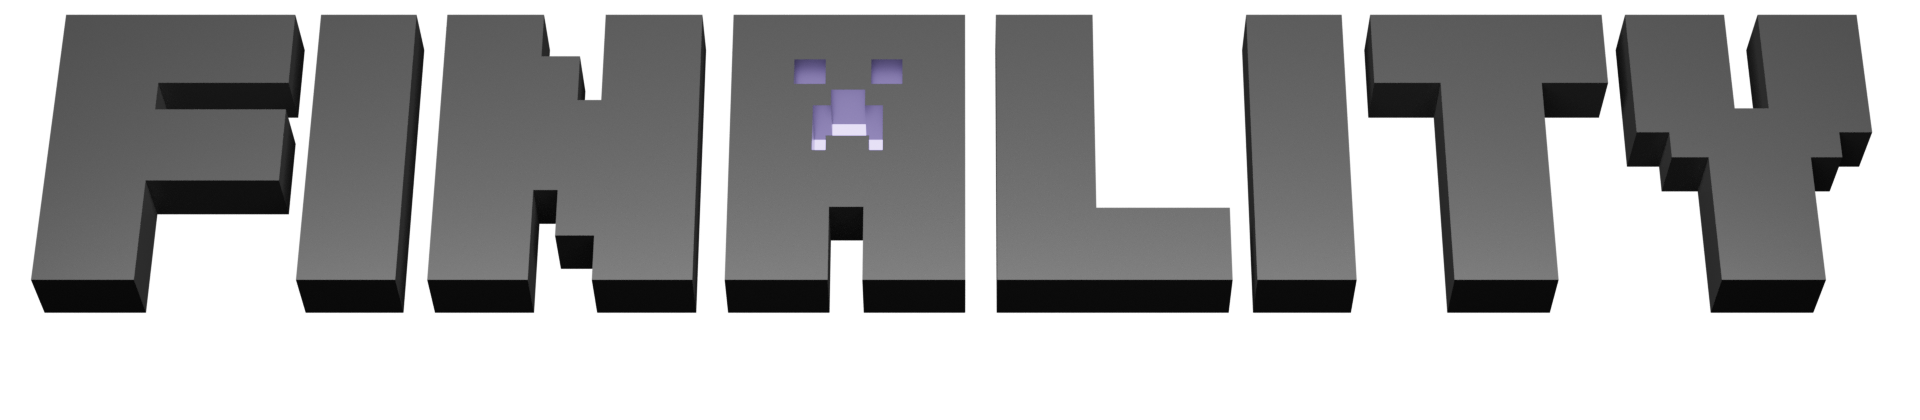
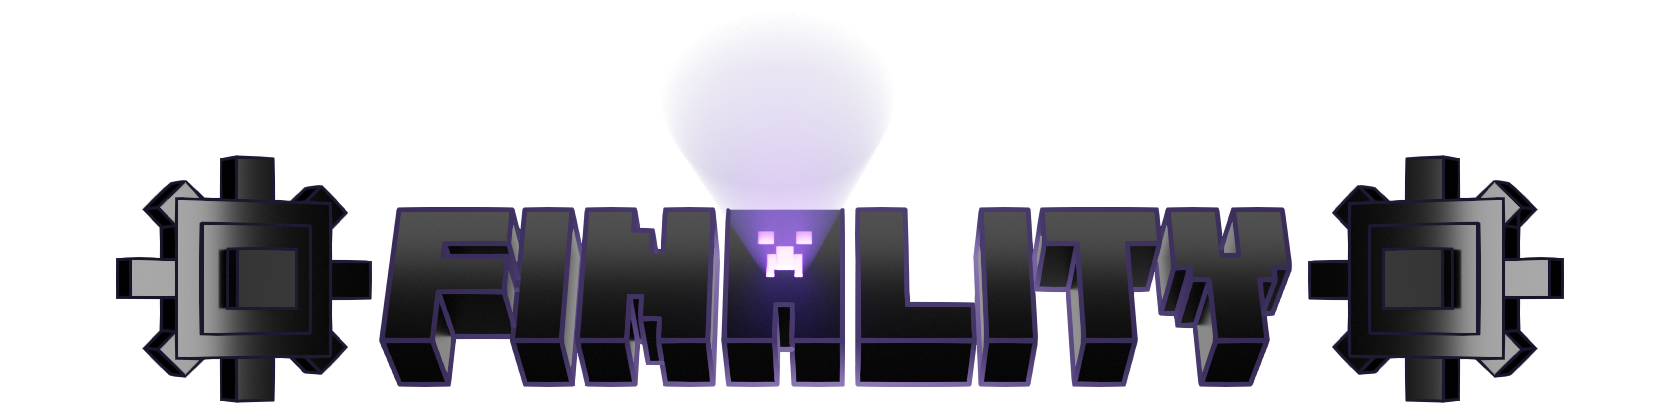
Finality 0.6.0b assets and options changed
- Updated title
- Fixed FM web text source
- Fixed an output not being a valid ingredient in extendedcrafting.js

diff --git a/kubejs/server_scripts/recipes/extendedcrafting.js b/kubejs/server_scripts/recipes/extendedcrafting.js
@@ -168,7 +168,7 @@ onEvent('recipes', event => {
     ]).transitionalItem(FIN('incomplete_framed_glass_singularity')).loops(32).id('finality:framed_glass_singularity')
     event.recipes.createSequencedAssembly([
         Item.of('extendedcrafting:singularity', '{Id:"extendedcrafting:precision_mechanism"}').withChance(75.0),
-        Item.of('create:crushed_gold_ore', 16).withChance(25.0),
+        Item.of('create:crushed_raw_gold', 16).withChance(25.0),
         Item.of('create:cogwheel', 32).withChance(25.0),
         Item.of('create:large_cogwheel', 8).withChance(25.0),
         '32x create:precision_mechanism'
